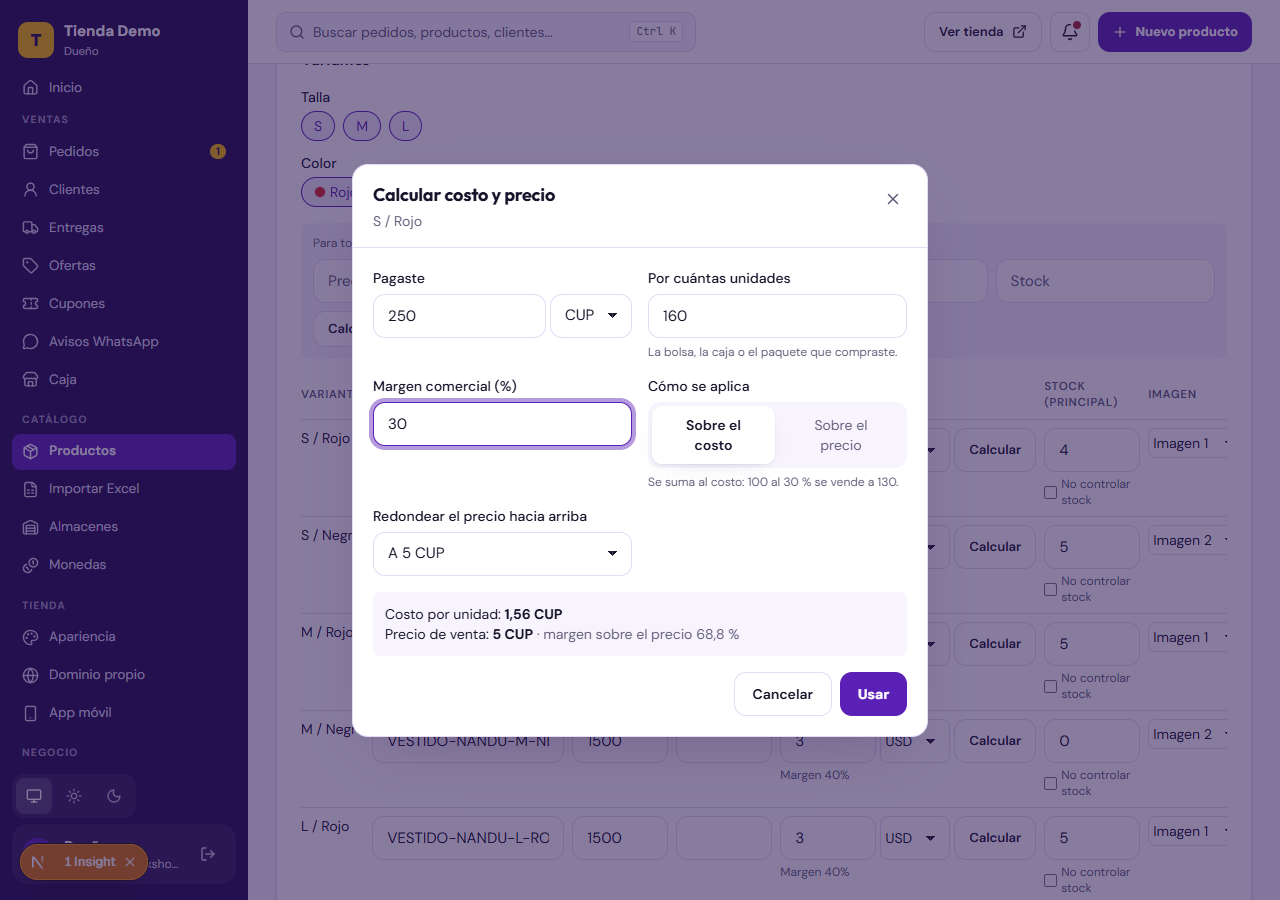
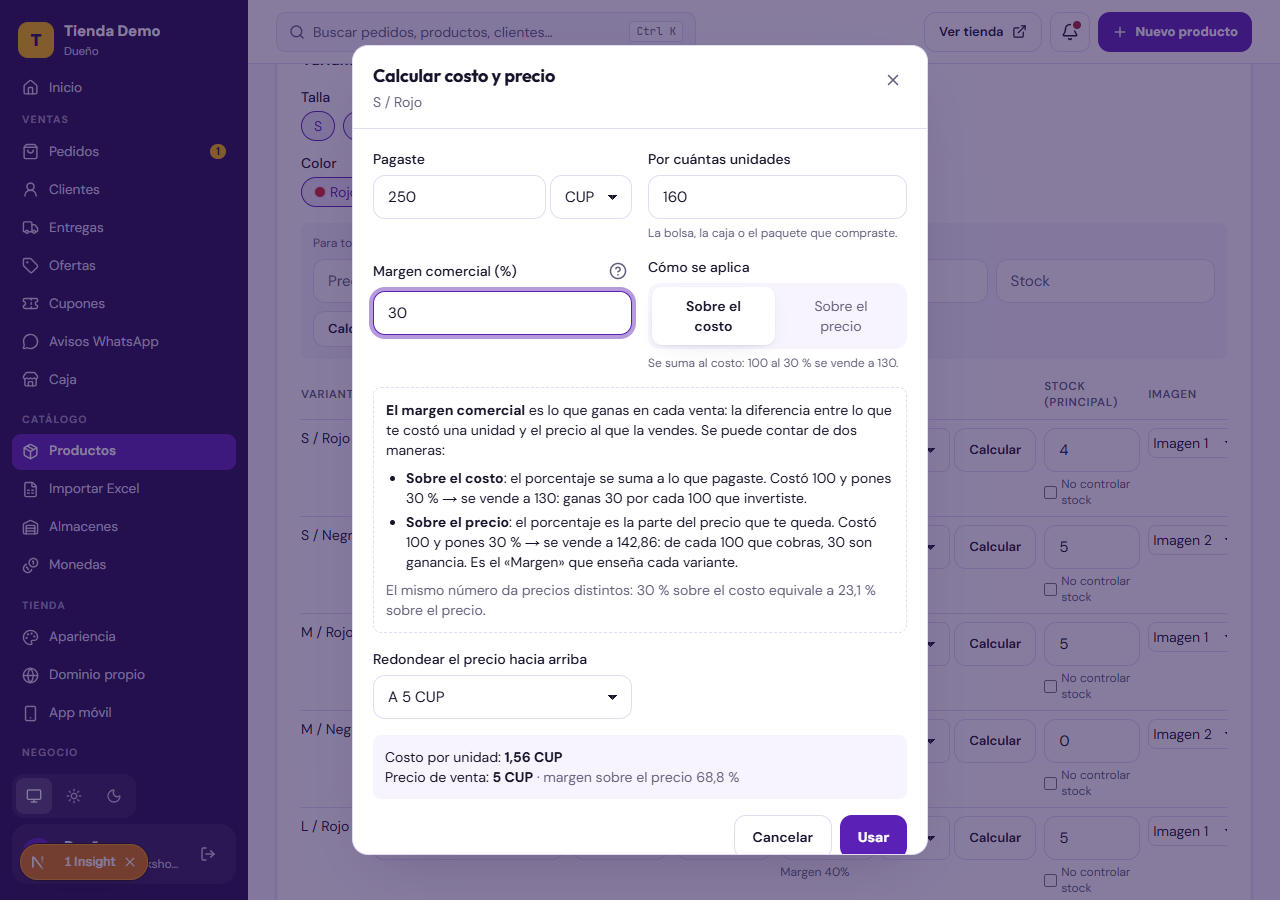
feat(catalog): explain the commercial margin in the price calculator
A «?» next to «Margen comercial» opens what the margin is and how «sobre el costo» and «sobre el precio» differ,
with the same numbers the dialog uses (KSH0003, Roberto's review).

Changed region(s): [[0.2812, 0.2489, 0.6875, 0.7778], [0.25, 0.0311, 0.75, 0.2489], [0.25, 0.7467, 0.75, 0.9644]]

diff --git a/packages/admin/src/catalog/PriceCalculatorDialog.tsx b/packages/admin/src/catalog/PriceCalculatorDialog.tsx
@@ -10,7 +10,7 @@ import {
   type CurrencyCode,
   type MarginBasis,
 } from "@kshop/core";
-import { Button, Dialog, Input, Label, Segmented, Select } from "@kshop/ui";
+import { Button, CircleHelp, Dialog, Input, Label, Segmented, Select } from "@kshop/ui";
 import { useId, useState } from "react";
 
 export type CalculatedPrice = { cost: string; costCurrency: CurrencyCode; price: string };
@@ -68,6 +68,7 @@ function CalculatorForm({
   const [margin, setMargin] = useState("");
   const [basis, setBasis] = useState<MarginBasis>("cost");
   const [rounding, setRounding] = useState("");
+  const [help, setHelp] = useState(false);
 
   const lotCostN = num(lotCost);
   const unitsN = num(units);
@@ -133,7 +134,19 @@ function CalculatorForm({
       </div>
 
       <div className="flex flex-col gap-1.5">
-        <Label htmlFor={`${id}-margin`}>Margen comercial (%)</Label>
+        <div className="flex items-center justify-between gap-2">
+          <Label htmlFor={`${id}-margin`}>Margen comercial (%)</Label>
+          <button
+            type="button"
+            aria-label="Qué es el margen comercial"
+            aria-expanded={help}
+            aria-controls={`${id}-help`}
+            onClick={() => setHelp(!help)}
+            className="flex size-7 shrink-0 items-center justify-center rounded-full text-muted-foreground hover:bg-surface hover:text-foreground touch:size-10"
+          >
+            <CircleHelp size={18} aria-hidden />
+          </button>
+        </div>
         <Input
           id={`${id}-margin`}
           inputMode="decimal"
@@ -156,6 +169,32 @@ function CalculatorForm({
             : "Es la parte del precio que te queda: 100 al 30 % se vende a 142,86."}
         </p>
       </div>
+      {help && (
+        <div
+          id={`${id}-help`}
+          className="rounded-md border border-dashed p-3 text-sm sm:col-span-2"
+          data-testid="margin-help"
+        >
+          <p>
+            <strong>El margen comercial</strong> es lo que ganas en cada venta: la diferencia entre lo que te
+            costó una unidad y el precio al que la vendes. Se puede contar de dos maneras:
+          </p>
+          <ul className="mt-2 flex list-disc flex-col gap-1 pl-5">
+            <li>
+              <strong>Sobre el costo</strong>: el porcentaje se suma a lo que pagaste. Costó 100 y pones 30 %
+              → se vende a 130: ganas 30 por cada 100 que invertiste.
+            </li>
+            <li>
+              <strong>Sobre el precio</strong>: el porcentaje es la parte del precio que te queda. Costó 100 y
+              pones 30 % → se vende a 142,86: de cada 100 que cobras, 30 son ganancia. Es el «Margen» que
+              enseña cada variante.
+            </li>
+          </ul>
+          <p className="mt-2 text-muted-foreground">
+            El mismo número da precios distintos: 30 % sobre el costo equivale a 23,1 % sobre el precio.
+          </p>
+        </div>
+      )}
 
       <div className="flex flex-col gap-1.5">
         <Label htmlFor={`${id}-rounding`}>Redondear el precio hacia arriba</Label>

diff --git a/packages/ui/src/icons.ts b/packages/ui/src/icons.ts
@@ -16,6 +16,7 @@ export {
   ClipboardList,
   Check,
   CircleCheck,
+  CircleHelp,
   CirclePause,
   Clock,
   Coins,

diff --git a/.titan/memory/project/2026-10-31-ksh0003-calculadora-precio.md b/.titan/memory/project/2026-10-31-ksh0003-calculadora-precio.md
@@ -12,6 +12,8 @@ crear o editar el producto. En la misma sesión Roberto pidió además mostrar l
   que es el «Margen» que enseña la fila) y redondeo hacia arriba (centavo, 1, 5, 10, 50 de la moneda base). Enseña el
   costo por unidad (y su valor en la moneda base si se compró en otra) y el precio de venta con el margen resultante
   sobre el precio; «Usar» rellena costo, moneda del costo y precio de la variante (o de todas) sin guardar.
+  Un botón «?» junto a «Margen comercial» explica qué es el margen y la diferencia entre las dos formas (Roberto,
+  2026-10-31: «que se explique»).
 - **Core** (`packages/core/src/catalog/pricing.ts`): `unitCost(lotCost, units)` (al centavo, como `variant_costs`),
   `priceFromCost(cost, margin, basis, rounding)`, `MarginBasis`; `roundPrice` compartido con `convertFromBase`.
 - **Teléfonos** (`packages/core/src/orders/phone.ts`): `formatPhone` agrupa los cubanos como se escriben aquí:
